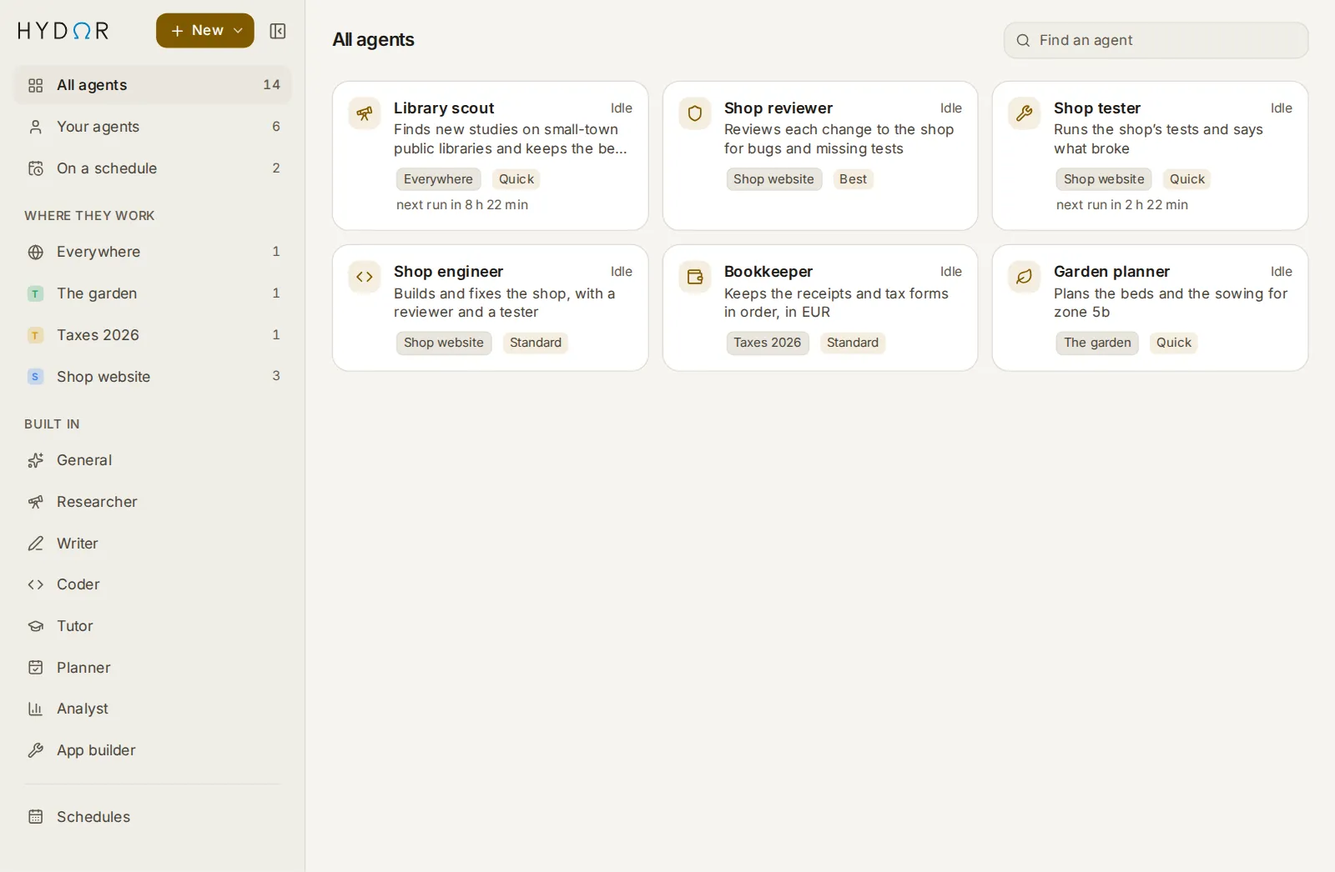
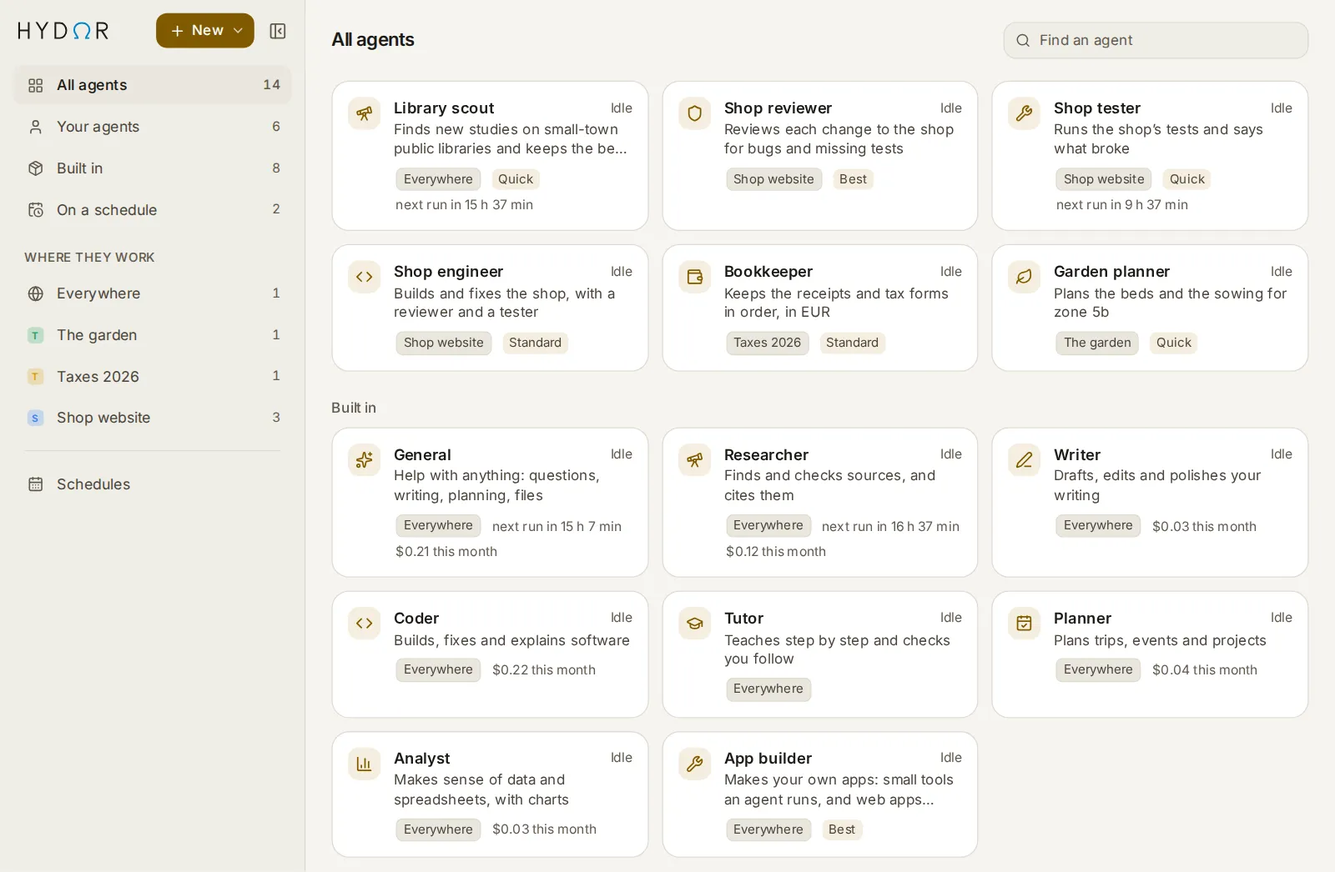
Agents: All agents lists every agent, yours and then the ones that come with the app under Built in, as cards (it showed only yours beside a count of all of them, since the column listed the built-in ones); the column's row for each built-in agent gives way to one Built in place (/agents?place=built

diff --git a/web/src/features/assistants/AgentsPage.tsx b/web/src/features/assistants/AgentsPage.tsx
@@ -5,7 +5,7 @@
 // and in its menu its Versions and Download as a file; Install installs one from a file.
 import { useEffect, useMemo, useRef, useState } from 'react';
 import { useLocation, useSearch } from 'wouter';
-import { BellRing, CalendarClock, CalendarDays, ChevronDown, Copy, Download, FileDown, FileUp, Globe, History, LayoutGrid, MessageSquarePlus, MoreHorizontal, Plus, Search, Settings2, Sparkles, Trash2, User, X } from 'lucide-react';
+import { BellRing, CalendarClock, CalendarDays, ChevronDown, Copy, Download, FileDown, FileUp, Globe, History, LayoutGrid, MessageSquarePlus, MoreHorizontal, Package, Plus, Search, Settings2, Sparkles, Trash2, User, X } from 'lucide-react';
 import { agentFileName } from '@shared/agent-files';
 import { DEFAULT_ASSISTANT, hasOutput, type Assistant, type AssistantsState } from '@shared/assistants';
 import type { ScheduledTask, TaskDraft } from '@shared/automations';
@@ -344,7 +344,7 @@ function AgentDetail({ id, onEdit, wide }: { id: string; onEdit: (a: Partial<Ass
 // ---- the page --------------------------------------------------------------------------------------------------
 
 /** Where the page is, on a computer: all the agents, a part of them, one of the ready-made ones' pages (an address of its own) or Schedules. */
-type Place = 'all' | 'mine' | 'needs' | 'scheduled' | 'everywhere' | 'schedules' | `project:${string}`;
+type Place = 'all' | 'mine' | 'builtin' | 'needs' | 'scheduled' | 'everywhere' | 'schedules' | `project:${string}`;
 
 /** The address that keeps a place (so a link opens it): /agents, /agents?place=mine, /agents/schedules. */
 function addressOf(p: Place): string {
@@ -353,7 +353,7 @@ function addressOf(p: Place): string {
   return `/agents?place=${encodeURIComponent(p)}`;
 }
 
-const PLACE_TITLES: Record<string, string> = { all: 'All agents', mine: 'Your agents', needs: 'Needs you', scheduled: 'On a schedule', everywhere: 'Everywhere', schedules: 'Schedules' };
+const PLACE_TITLES: Record<string, string> = { all: 'All agents', mine: 'Your agents', builtin: 'Built in', needs: 'Needs you', scheduled: 'On a schedule', everywhere: 'Everywhere', schedules: 'Schedules' };
 
 /** New agent, with Import and Install under it: the page's actions, in the row of the logo on a computer. */
 function NewAgentMenu({ onImport, onInstall }: { onImport: () => void; onInstall: () => void }) {
@@ -387,7 +387,6 @@ export function AgentsPage() {
   const spaces = useSpaces();
   const act = useAgentActivity();
   const wide = useMediaQuery('(min-width: 1024px)');
-  const sideOpen = useUI((s) => s.sideOpen);
   const [edit, setEdit] = useState<Partial<Assistant> | null>(null);
   const [filter, setFilter] = useState<string>('all');
   const [find, setFind] = useState('');
@@ -417,7 +416,7 @@ export function AgentsPage() {
   const everywhere = mine.filter((a) => !a.projects?.length).length;
   // The place, on a computer: from the address (a place that is gone, as a project, shows All agents). Narrower, the chips pick the filter.
   const asked = q.get('place');
-  const place: Place = schedules ? 'schedules' : !wide || id ? 'all' : asked === 'mine' || asked === 'needs' || asked === 'scheduled' || asked === 'everywhere' ? asked : asked?.startsWith('project:') && projects.some((s) => `project:${s.id}` === asked) ? (asked as Place) : 'all';
+  const place: Place = schedules ? 'schedules' : !wide || id ? 'all' : asked === 'mine' || asked === 'builtin' || asked === 'needs' || asked === 'scheduled' || asked === 'everywhere' ? asked : asked?.startsWith('project:') && projects.some((s) => `project:${s.id}` === asked) ? (asked as Place) : 'all';
   const by = wide ? (place === 'all' || place === 'mine' || place === 'schedules' ? 'all' : place.startsWith('project:') ? place.slice(8) : place) : filter;
   const words = (wide ? find : '').trim().toLowerCase();
   const found = (a: Assistant) => !words || `${a.name} ${a.description || a.instructions.slice(0, 160)}`.toLowerCase().includes(words);
@@ -433,9 +432,9 @@ export function AgentsPage() {
             : !!a.projects?.includes(by)) && found(a),
   );
   const builtinsShown = builtins.filter(found);
-  // The built-in agents have rows of their own in the column: the page lists them only while the column is hidden (or
-  // on a phone), and among what a search finds.
-  const showBuiltins = !wide || (place === 'all' && (!sideOpen || !!words));
+  // All agents lists them all: yours, then the ones that come with the app (Built in lists only those). A phone lists
+  // the built-in ones under its chips whatever they pick.
+  const showBuiltins = !wide || place === 'all' || place === 'builtin';
   useEffect(() => setFind(''), [place]);
   const chip = (key: string, label: string, n?: number) => (
     <button
@@ -457,6 +456,7 @@ export function AgentsPage() {
         <nav aria-label="Places in Agents" className="space-y-0.5">
           <PlaceRow on={!id && place === 'all'} icon={icon(LayoutGrid)} label="All agents" count={st ? mine.length + builtins.length : 0} onClick={() => go(addressOf('all'))} />
           <PlaceRow on={place === 'mine' || (!!id && !builtins.some((a) => a.id === id) && mine.some((a) => a.id === id))} icon={icon(User)} label="Your agents" count={mine.length} onClick={() => go(addressOf('mine'))} />
+          {builtins.length > 0 && <PlaceRow on={place === 'builtin' || (!!id && builtins.some((a) => a.id === id))} icon={icon(Package)} label="Built in" count={builtins.length} onClick={() => go(addressOf('builtin'))} />}
           {(needs > 0 || place === 'needs') && <PlaceRow on={place === 'needs'} icon={icon(BellRing)} label="Needs you" count={needs} onClick={() => go(addressOf('needs'))} />}
           {(scheduledCount > 0 || place === 'scheduled') && <PlaceRow on={place === 'scheduled'} icon={icon(CalendarClock)} label="On a schedule" count={scheduledCount} onClick={() => go(addressOf('scheduled'))} />}
           {projects.length > 0 && (
@@ -473,14 +473,6 @@ export function AgentsPage() {
                   count={mine.filter((a) => a.projects?.includes(s.id)).length}
                   onClick={() => go(addressOf(`project:${s.id}`))}
                 />
-              ))}
-            </>
-          )}
-          {builtins.length > 0 && (
-            <>
-              <PlacesLabel>Built in</PlacesLabel>
-              {builtins.map((a) => (
-                <PlaceRow key={a.id} on={id === a.id} icon={<AssistantIcon icon={a.icon} size={15} plain className="text-fg-3" />} label={a.name} onClick={() => go(`/agents/${enc(a.id)}`)} />
               ))}
             </>
           )}
@@ -569,7 +561,7 @@ export function AgentsPage() {
                 </div>
               ) : (
                 <>
-                  {!mine.length ? (
+                  {place === 'builtin' ? null : !mine.length ? (
                     place !== 'all' && place !== 'mine' && wide ? (
                       <div className="py-6 text-center text-[13px] text-fg-3">None here.</div>
                     ) : (
@@ -608,26 +600,35 @@ export function AgentsPage() {
                   )}
                   {showBuiltins && builtinsShown.length > 0 && (
                     <section>
-                      <h2 className="mb-2 text-[13px] font-medium text-fg-3">Built in</h2>
-                      <div className="flex flex-wrap gap-1.5">
-                        {/* Built-in identities stay English in German; authored agents keep their words in every language. */}
-                        {builtinsShown.map((a) => (
-                          <button
-                            key={a.id}
-                            type="button"
-                            onClick={() => go(`/agents/${enc(a.id)}`)}
-                            title={a.description}
-                            translate={assistantTranslate(a)}
-                            className="flex items-center gap-2 rounded-full border border-line bg-panel py-1 pr-3 pl-1 text-[13px] hover:border-line-2"
-                          >
-                            <AssistantIcon icon={a.icon} size={12} />
-                            {a.name}
-                            {a.id === DEFAULT_ASSISTANT && <span className="text-[11.5px] text-fg-3">· the default</span>}
-                          </button>
-                        ))}
-                      </div>
+                      {place !== 'builtin' && <h2 className="mb-2 text-[13px] font-medium text-fg-3">Built in</h2>}
+                      {wide ? (
+                        <div className="grid gap-3 sm:grid-cols-2 xl:grid-cols-3">
+                          {builtinsShown.map((a) => (
+                            <AgentCard key={a.id} a={a} spaces={spaces} />
+                          ))}
+                        </div>
+                      ) : (
+                        <div className="flex flex-wrap gap-1.5">
+                          {/* Built-in identities stay English in German; authored agents keep their words in every language. */}
+                          {builtinsShown.map((a) => (
+                            <button
+                              key={a.id}
+                              type="button"
+                              onClick={() => go(`/agents/${enc(a.id)}`)}
+                              title={a.description}
+                              translate={assistantTranslate(a)}
+                              className="flex items-center gap-2 rounded-full border border-line bg-panel py-1 pr-3 pl-1 text-[13px] hover:border-line-2"
+                            >
+                              <AssistantIcon icon={a.icon} size={12} />
+                              {a.name}
+                              {a.id === DEFAULT_ASSISTANT && <span className="text-[11.5px] text-fg-3">· the default</span>}
+                            </button>
+                          ))}
+                        </div>
+                      )}
                     </section>
                   )}
+                  {place === 'builtin' && !builtinsShown.length && <div className="py-6 text-center text-[13px] text-fg-3">None here.</div>}
                 </>
               )}
             </div>

diff --git a/docs/guide/el/05-agents.md b/docs/guide/el/05-agents.md
@@ -31,7 +31,7 @@
 Ανοίξτε το **Πράκτορες** στη στήλη εικονιδίων ή μεταβείτε στο [/agents](/agents). Στο κινητό η πλευρική στήλη είναι συρτάρι: ανοίξτε το πρώτα. Στις [Ρυθμίσεις → Δυνατότητες → Οι πράκτορές σας](/settings?s=assistants&find=Your%20agents) υπάρχει μια γραμμή **Οι πράκτορές σας** που ανοίγει κι αυτή τη σελίδα (αναφέρει πόσοι πράκτορες είναι δικοί σας)· το υπόλοιπο της ενότητας αφορά τους φακέλους εργασιών και τον καθαρισμό, παρακάτω.
 
 - Στον υπολογιστή η σελίδα έχει μια στήλη δίπλα στη στήλη εικονιδίων, όπως οι Εφαρμογές και οι Ρυθμίσεις: το λογότυπο, το **Νέο** και το **Απόκρυψη πλευρικής στήλης** (Ctrl+B, ⌘B σε Mac) στην κορυφή, και από κάτω τα σημεία. Το **Νέο** ανοίγει ένα μενού: το **Νέος πράκτορας** δημιουργεί έναν (δείτε [Δημιουργία πράκτορα](#make-an-agent))· το **Εγκατάσταση πράκτορα από αρχείο** εγκαθιστά έναν από αρχείο που σας έδωσε κάποιος (δείτε [Κοινοποίηση πράκτορα ως αρχείου](#share-an-agent-as-a-file))· το **Εισαγωγή αρχείων πρακτόρων του Claude Code** φέρνει τα αρχεία πρακτόρων του Claude Code (δείτε [Εισαγωγή των αρχείων πρακτόρων του Claude Code](#import-claude-codes-agent-files)).
-- Τα σημεία: **Όλοι οι πράκτορες** (οι δικοί σας ως κάρτες, και από κάτω οι ενσωματωμένοι όταν η στήλη είναι κρυφή, αφού η στήλη τους απαριθμεί), **Οι πράκτορές σας** (μόνο οι δικοί σας), **Σας χρειάζεται** και **Με πρόγραμμα** (το καθένα εμφανίζεται όσο ισχύει για κάποιους δικούς σας) και, κάτω από το **Πού εργάζονται**, το **Παντού** και κάθε έργο που έχει δικούς του πράκτορες. Το καθένα δείχνει πόσους πράκτορες περιέχει. Κάτω από το **Ενσωματωμένο** υπάρχει μια γραμμή για κάθε πράκτορα που συνοδεύει την εφαρμογή, με το εικονίδιό του, και ανοίγει τη δική του σελίδα. Μετά από μια γραμμή διαχωρισμού, τα **Προγράμματα** δείχνουν ό,τι εκτελείται από μόνο του σε μια εβδομάδα: τα προγράμματα των πρακτόρων σας μαζί με τις άλλες προγραμματισμένες εργασίες σας, τα προγράμματα των εφαρμογών σας, τους παρατηρητές και τα webhooks, κάθε εκτέλεση χρωματισμένη ανάλογα με το πώς πήγε, τι εκτελείται στη συνέχεια, και μια λίστα με όλα με διακόπτη για παύση του καθενός (δείτε [Δείτε την εβδομάδα: τι εκτελέστηκε και τι εκτελείται στη συνέχεια](/guide/tasks#see-the-week-what-ran-and-what-runs-next)). Το ανοιχτό σημείο επισημαίνεται και η διεύθυνση το διατηρεί (`/agents?place=mine`, `/agents/schedules`), έτσι ένας σύνδεσμος το ανοίγει.
+- Τα σημεία: **Όλοι οι πράκτορες** (κάθε πράκτορας ως κάρτα: οι δικοί σας, και μετά όσοι συνοδεύουν την εφαρμογή κάτω από το **Ενσωματωμένο**), **Οι πράκτορές σας** (μόνο οι δικοί σας), **Ενσωματωμένο** (μόνο όσοι συνοδεύουν την εφαρμογή· ένα κλικ σε έναν από αυτούς ανοίγει τη δική του σελίδα), **Σας χρειάζεται** και **Με πρόγραμμα** (το καθένα εμφανίζεται όσο ισχύει για κάποιους δικούς σας) και, κάτω από το **Πού εργάζονται**, το **Παντού** και κάθε έργο που έχει δικούς του πράκτορες. Το καθένα δείχνει πόσους πράκτορες περιέχει. Μετά από μια γραμμή διαχωρισμού, τα **Προγράμματα** δείχνουν ό,τι εκτελείται από μόνο του σε μια εβδομάδα: τα προγράμματα των πρακτόρων σας μαζί με τις άλλες προγραμματισμένες εργασίες σας, τα προγράμματα των εφαρμογών σας, τους παρατηρητές και τα webhooks, κάθε εκτέλεση χρωματισμένη ανάλογα με το πώς πήγε, τι εκτελείται στη συνέχεια, και μια λίστα με όλα με διακόπτη για παύση του καθενός (δείτε [Δείτε την εβδομάδα: τι εκτελέστηκε και τι εκτελείται στη συνέχεια](/guide/tasks#see-the-week-what-ran-and-what-runs-next)). Το ανοιχτό σημείο επισημαίνεται και η διεύθυνση το διατηρεί (`/agents?place=mine`, `/agents/schedules`), έτσι ένας σύνδεσμος το ανοίγει.
 - Στην κορυφή της σελίδας, το όνομα του σημείου βρίσκεται αριστερά και το πεδίο αναζήτησης δεξιά: το **Βρείτε έναν πράκτορα** περιορίζει τις κάρτες, και τους ενσωματωμένους πράκτορες, σε όσους έχουν στο όνομα ή στη γραμμή τους αυτό που πληκτρολογείτε.
 - Οι πράκτορές σας εμφανίζονται ως κάρτες. Κάθε κάρτα έχει το όνομα του πράκτορα, τη γραμμή του, την κατάστασή του (**Εργάζεται**, **Σας χρειάζεται** όταν μια συνεδρία του περιμένει την απάντησή σας, **Ο προϋπολογισμός εξαντλήθηκε** ή **Αδρανής**), τα έργα στα οποία εργάζεται (ή **Παντού**), τη βαθμίδα του, πότε εκτελείται στη συνέχεια, πόσα μηνύματα περιμένουν στα Εισερχόμενά του και πόσα ξόδεψε αυτόν τον μήνα.
 - Στο κινητό και σε στενό παράθυρο δεν υπάρχει στήλη: η σελίδα κρατά τον τίτλο της, με τα **Νέος πράκτορας**, **Εισαγωγή** και **Εγκατάσταση** στα δεξιά, δύο καρτέλες από κάτω (**Οι πράκτορές σας** και **Προγράμματα**), και πάνω από τις κάρτες chips που δείχνουν **Όλα**, **Παντού**, κάθε έργο που έχει δικούς του πράκτορες, **Με πρόγραμμα** και **Σας χρειάζεται**. Οι πράκτορες που συνοδεύουν την εφαρμογή βρίσκονται κάτω από το **Ενσωματωμένο**.

diff --git a/docs/guide/ja/05-agents.md b/docs/guide/ja/05-agents.md
@@ -31,7 +31,7 @@
 アイコンバーの**エージェント**を開くか、[/agents](/agents)にアクセスします。スマートフォンではサイドバーがドロワーになっているため、先にそれを開きます。[設定 → 機能 → 自分のエージェント](/settings?s=assistants&find=Your%20agents)にも、このページを開く**自分のエージェント**の行があります（自分のエージェントの数が表示されます）。そのセクションのそのほかの項目は、後述のタスクフォルダと片付けに関するものです。
 
 - コンピューターでは、アプリや設定と同じように、アイコンバーの横に列が表示されます。上部にロゴ、**新規**、**サイドバーを隠す**（Ctrl+B、Macでは⌘B）があり、その下に各場所が並びます。**新規**はメニューを開きます。**新しいエージェント**はエージェントを作成します（[エージェントを作る](#make-an-agent)を参照）。**ファイルからエージェントをインストール**は、他の人から受け取ったファイルからエージェントをインストールします（[エージェントをファイルとして共有する](#share-an-agent-as-a-file)を参照）。**Claude Codeのエージェントファイルをインポート**は、Claude Codeのエージェントファイルを取り込みます（[Claude Codeのエージェントファイルをインポートする](#import-claude-codes-agent-files)を参照）。
-- 場所は次のとおりです。**すべてのエージェント**（自分のエージェントがカードで並びます。列を隠しているあいだは、その下に組み込みのエージェントも並びます。列を表示しているときは、列のほうに一覧されるためです）、**自分のエージェント**（自分のものだけ）、**対応が必要**と**スケジュール実行**（自分のエージェントに該当するものがあるときに表示されます）、そして**作業場所**の下の**すべての場所**と、専用のエージェントを持つ各プロジェクトです。それぞれに、含まれるエージェントの数が表示されます。**組み込み**の下には、アプリに最初から入っているエージェントごとに、アイコン付きの行があり、そのエージェント専用のページを開きます。区切り線の後の**スケジュール**には、1週間のうちに自動で実行されるものがすべて表示されます。自分のエージェントのスケジュールと、そのほかのスケジュールタスク、アプリのスケジュール、ウォッチャー、Webhookがあり、各実行は結果に応じた色で示され、次に実行されるものと、すべての一覧も確認できます。一覧には、それぞれを一時停止するスイッチがあります（[1週間を見る：実行されたものと次に実行されるもの](/guide/tasks#see-the-week-what-ran-and-what-runs-next)を参照）。開いている場所には印が付き、アドレスにもその場所が含まれる（`/agents?place=mine`、`/agents/schedules`）ので、リンクでその場所を開けます。
+- 場所は次のとおりです。**すべてのエージェント**（すべてのエージェントをカードで表示します。自分のエージェントが先に、その後にアプリに最初から入っているエージェントが**組み込み**の下に並びます）、**自分のエージェント**（自分のものだけ）、**組み込み**（アプリに最初から入っているものだけ。1つをクリックすると、そのエージェント専用のページが開きます）、**対応が必要**と**スケジュール実行**（自分のエージェントに該当するものがあるときに表示されます）、そして**作業場所**の下の**すべての場所**と、専用のエージェントを持つ各プロジェクトです。それぞれに、含まれるエージェントの数が表示されます。区切り線の後の**スケジュール**には、1週間のうちに自動で実行されるものがすべて表示されます。自分のエージェントのスケジュールと、そのほかのスケジュールタスク、アプリのスケジュール、ウォッチャー、Webhookがあり、各実行は結果に応じた色で示され、次に実行されるものと、すべての一覧も確認できます。一覧には、それぞれを一時停止するスイッチがあります（[1週間を見る：実行されたものと次に実行されるもの](/guide/tasks#see-the-week-what-ran-and-what-runs-next)を参照）。開いている場所には印が付き、アドレスにもその場所が含まれる（`/agents?place=mine`、`/agents/schedules`）ので、リンクでその場所を開けます。
 - ページ上部の左側に場所の名前、右側に検索ボックスがあります。**エージェントを検索**に入力すると、名前または説明文にその文字を含むカードと組み込みエージェントに絞り込まれます。
 - 自分のエージェントはカードで表示されます。各カードには、エージェントの名前、説明文、状況（**実行中**、セッションが回答を待っているときは**対応が必要**、**予算を使い切りました**、**待機中**）、作業するプロジェクト（または**すべての場所**）、ティア、次の実行予定、受信トレイで待っているメッセージの数、今月の支出額が表示されます。
 - スマートフォンや狭いウィンドウでは列は表示されません。ページにはタイトルが残り、右側に**新しいエージェント**、**インポート**、**インストール**が並びます。その下に2つのタブ（**自分のエージェント**と**スケジュール**）があり、カードの上には、**すべて**、**すべての場所**、専用のエージェントを持つ各プロジェクト、**スケジュール実行**、**対応が必要**を示すチップが並びます。アプリに最初から入っているエージェントは**組み込み**の下にあります。

diff --git a/docs/guide/fr/05-agents.md b/docs/guide/fr/05-agents.md
@@ -31,7 +31,7 @@ Un agent est un rôle qu’une session endosse. Le texte que tous les agents doi
 Ouvrez **Agents** dans la barre d’icônes, ou allez à [/agents](/agents). Sur un téléphone, la barre latérale est un tiroir : ouvrez-le d’abord. [Paramètres → Capacités → Vos agents](/settings?s=assistants&find=Your%20agents) contient une ligne **Vos agents** qui ouvre aussi cette page (elle indique combien d’agents sont les vôtres) ; le reste de cette section concerne les dossiers de tâche et le nettoyage, plus bas.
 
 - Sur un ordinateur, la page comporte une colonne à côté de la barre d’icônes, comme Apps et Paramètres : le logo, **Nouveau** et **Masquer la barre latérale** (Ctrl+B, ⌘B sur un Mac) en haut, et les emplacements en dessous. **Nouveau** ouvre un menu : **Nouvel agent** en crée un (voir [Créer un agent](#make-an-agent)) ; **Installer un agent depuis un fichier** installe un agent à partir d’un fichier que quelqu’un vous a donné (voir [Partager un agent sous forme de fichier](#share-an-agent-as-a-file)) ; **Importer des fichiers d’agent Claude Code** importe les fichiers d’agent de Claude Code (voir [Importer les fichiers d’agent de Claude Code](#import-claude-codes-agent-files)).
-- Les emplacements : **Tous les agents** (les vôtres sous forme de cartes, et les agents intégrés en dessous quand la colonne est masquée, puisque la colonne les liste), **Vos agents** (seulement les vôtres), **Votre intervention est requise** et **Sur planification** (chacun s’affiche tant que certains des vôtres sont concernés) et, sous **Où ils travaillent**, **Partout** et chaque projet qui a ses propres agents. Chacun indique le nombre d’agents qu’il contient. Sous **Intégré**, une ligne par agent fourni avec l’app, avec son icône, ouvre la page propre à cet agent. Après un séparateur, **Planifications** montre tout ce qui s’exécute tout seul sur une semaine : les planifications de vos agents avec vos autres tâches planifiées, les planifications, observateurs et webhooks de vos apps, chaque exécution colorée selon son déroulement, ce qui s’exécute ensuite, et la liste de toutes avec un interrupteur pour mettre chacune en pause (voir [Voir la semaine : ce qui s’est exécuté et ce qui s’exécute ensuite](/guide/tasks#see-the-week-what-ran-and-what-runs-next)). L’emplacement ouvert est marqué, et l’adresse le retient (`/agents?place=mine`, `/agents/schedules`), de sorte qu’un lien l’ouvre.
+- Les emplacements : **Tous les agents** (chaque agent sous forme de carte : les vôtres, puis ceux fournis avec l’app sous **Intégré**), **Vos agents** (seulement les vôtres), **Intégré** (seulement ceux fournis avec l’app ; un clic sur l’un d’eux ouvre sa propre page), **Votre intervention est requise** et **Sur planification** (chacun s’affiche tant que certains des vôtres sont concernés) et, sous **Où ils travaillent**, **Partout** et chaque projet qui a ses propres agents. Chacun indique le nombre d’agents qu’il contient. Après un séparateur, **Planifications** montre tout ce qui s’exécute tout seul sur une semaine : les planifications de vos agents avec vos autres tâches planifiées, les planifications, observateurs et webhooks de vos apps, chaque exécution colorée selon son déroulement, ce qui s’exécute ensuite, et la liste de toutes avec un interrupteur pour mettre chacune en pause (voir [Voir la semaine : ce qui s’est exécuté et ce qui s’exécute ensuite](/guide/tasks#see-the-week-what-ran-and-what-runs-next)). L’emplacement ouvert est marqué, et l’adresse le retient (`/agents?place=mine`, `/agents/schedules`), de sorte qu’un lien l’ouvre.
 - En haut de la page, le nom de l’emplacement est à gauche et la zone de recherche à droite : **Trouver un agent** réduit les cartes, ainsi que les agents intégrés, à ceux dont le nom ou la ligne contient ce que vous saisissez.
 - Vos agents s’affichent sous forme de cartes. Chaque carte indique le nom de l’agent, sa ligne, où il en est (**En cours**, **Votre intervention est requise** quand l’une de ses sessions attend votre réponse, **Budget épuisé**, ou **Inactif**), les projets dans lesquels il travaille (ou **Partout**), son niveau, sa prochaine exécution, le nombre de messages qui attendent dans sa boîte de réception, et ce qu’il a dépensé ce mois-ci.
 - Sur un téléphone et dans une fenêtre étroite, il n’y a pas de colonne : la page garde son titre, avec **Nouvel agent**, **Importer** et **Installer** à droite, deux onglets en dessous (**Vos agents** et **Planifications**), et des pastilles au-dessus des cartes qui affichent **Tout**, **Partout**, chaque projet qui a ses propres agents, **Sur planification** et **Votre intervention est requise**. Les agents fournis avec l’app se trouvent sous **Intégré**.

diff --git a/docs/guide/es/05-agents.md b/docs/guide/es/05-agents.md
@@ -31,7 +31,7 @@ Un agente es un papel que asume una sesión. El texto que todos los agentes debe
 Abre **Agentes** en la barra de iconos, o ve a [/agents](/agents). En un teléfono la barra lateral es un panel deslizante: ábrelo primero. [Configuración → Capacidades → Tus agentes](/settings?s=assistants&find=Your%20agents) tiene una fila **Tus agentes** que también abre esta página (indica cuántos agentes son tuyos); el resto de esa sección trata de las carpetas de tareas y de la limpieza, más abajo.
 
 - En una computadora la página tiene una columna junto a la barra de iconos, como Apps y Configuración: arriba están el logotipo, **Nueva** y **Ocultar barra lateral** (Ctrl+B, ⌘B en Mac), y debajo los lugares. **Nueva** abre un menú: **Nuevo agente** crea uno (consulta [Crear un agente](#make-an-agent)); **Instalar un agente desde un archivo** instala uno desde un archivo que alguien te dio (consulta [Compartir un agente como archivo](#share-an-agent-as-a-file)); **Importar archivos de agentes de Claude Code** trae los archivos de agentes de Claude Code (consulta [Importar los archivos de agentes de Claude Code](#import-claude-codes-agent-files)).
-- Los lugares: **Todos los agentes** (los tuyos como tarjetas, y los integrados debajo mientras la columna está oculta, ya que la columna los lista), **Tus agentes** (solo los tuyos), **Te necesita** y **Con programación** (cada uno aparece mientras algunos de los tuyos cumplen esa condición) y, bajo **Dónde trabajan**, **En todas partes** y cada proyecto que tiene agentes propios. Cada uno indica cuántos agentes contiene. Bajo **Integrado** hay una fila por cada agente que viene con la app, con su icono, y abre la página propia de ese agente. Después de una línea, **Programaciones** muestra en una semana todo lo que se ejecuta solo: las programaciones de tus agentes junto con tus otras tareas programadas, las programaciones de tus apps, los vigilantes y los webhooks, cada ejecución coloreada según cómo salió, lo que se ejecuta a continuación y una lista de todas con un interruptor para pausar cada una (consulta [Ver la semana: qué se ejecutó y qué se ejecutará](/guide/tasks#see-the-week-what-ran-and-what-runs-next)). El lugar abierto aparece marcado y la dirección lo conserva (`/agents?place=mine`, `/agents/schedules`), así que un enlace lo abre.
+- Los lugares: **Todos los agentes** (cada agente como tarjeta: los tuyos, y luego los que vienen con la app bajo **Integrado**), **Tus agentes** (solo los tuyos), **Integrado** (solo los que vienen con la app; un clic en uno abre su propia página), **Te necesita** y **Con programación** (cada uno aparece mientras algunos de los tuyos cumplen esa condición) y, bajo **Dónde trabajan**, **En todas partes** y cada proyecto que tiene agentes propios. Cada uno indica cuántos agentes contiene. Después de una línea, **Programaciones** muestra en una semana todo lo que se ejecuta solo: las programaciones de tus agentes junto con tus otras tareas programadas, las programaciones de tus apps, los vigilantes y los webhooks, cada ejecución coloreada según cómo salió, lo que se ejecuta a continuación y una lista de todas con un interruptor para pausar cada una (consulta [Ver la semana: qué se ejecutó y qué se ejecutará](/guide/tasks#see-the-week-what-ran-and-what-runs-next)). El lugar abierto aparece marcado y la dirección lo conserva (`/agents?place=mine`, `/agents/schedules`), así que un enlace lo abre.
 - En la parte superior de la página, el nombre del lugar está a la izquierda y el cuadro de búsqueda a la derecha: **Buscar un agente** reduce las tarjetas, y los agentes integrados, a los que tienen lo que escribes en su nombre o en su línea.
 - Tus agentes aparecen como tarjetas. Cada tarjeta tiene el nombre del agente, su línea, cómo le va (**Funcionando**, **Te necesita** cuando una de sus sesiones espera tu respuesta, **Presupuesto agotado** o **Inactivo**), los proyectos en los que trabaja (o **En todas partes**), su nivel, cuándo se ejecuta a continuación, cuántos mensajes esperan en su bandeja de entrada y lo que gastó este mes.
 - En un teléfono y en una ventana estrecha no hay columna: la página conserva su título, con **Nuevo agente**, **Importar** e **Instalar** a la derecha, dos pestañas debajo (**Tus agentes** y **Programaciones**) y, sobre las tarjetas, chips que muestran **Todos**, **En todas partes**, cada proyecto que tiene agentes propios, **Con programación** y **Te necesita**. Los agentes que vienen con la app están bajo **Integrado**.

diff --git a/docs/guide/de/05-agents.md b/docs/guide/de/05-agents.md
@@ -31,7 +31,7 @@ Ein Agent ist eine Rolle, die eine Sitzung übernimmt. Text, den alle Agenten in
 Öffne **Agenten** in der Leiste oder gehe zu [/agents](/agents). Auf einem Smartphone ist die Seitenleiste eine Schublade: öffne sie zuerst. [Einstellungen → Funktionen → Deine Agenten](/settings?s=assistants&find=Your%20agents) hat eine Zeile **Deine Agenten**, die ebenfalls diese Seite öffnet (sie nennt, wie viele Agenten deine eigenen sind); der Rest dieses Abschnitts handelt von Aufgabenordnern und dem Aufräumen, weiter unten.
 
 - Auf einem Computer hat die Seite neben der Leiste eine Spalte, wie Apps und Einstellungen: oben das Logo, **Neu** und **Seitenleiste ausblenden** (Strg+B, ⌘B auf einem Mac), darunter die Orte. **Neu** öffnet ein Menü: **Neuer Agent** erstellt einen (siehe [Einen Agenten erstellen](#make-an-agent)); **Agent aus Datei installieren** installiert einen aus einer Datei, die dir jemand gegeben hat (siehe [Einen Agenten als Datei teilen](#share-an-agent-as-a-file)); **Claude Code-Agentendateien importieren** holt die Agentendateien von Claude Code herein (siehe [Die Agentendateien von Claude Code importieren](#import-claude-codes-agent-files)).
-- Die Orte: **Alle Agenten** (deine als Karten, und die eingebauten darunter, solange die Spalte ausgeblendet ist, da die Spalte sie auflistet), **Deine Agenten** (nur deine), **Braucht dich** und **Nach einem Zeitplan** (jeweils sichtbar, solange einige von deinen dazu passen) und unter **Wo sie arbeiten** **Überall** und jedes Projekt, das eigene Agenten hat. Jeder Ort zeigt, wie viele Agenten er enthält. Unter **Eingebaut** gibt es für jeden Agenten, der mit der App mitkommt, eine Zeile mit seinem Symbol, die die eigene Seite dieses Agenten öffnet. Nach einer Trennlinie zeigt **Zeitpläne** alles, was von selbst läuft, auf einer Woche: die Zeitpläne deiner Agenten mit deinen anderen Geplanten Aufgaben, die Zeitpläne deiner Apps, Watcher und Webhooks, jede Ausführung eingefärbt danach, wie sie verlief, was als Nächstes läuft und eine Liste von allen mit einem Schalter, um jede zu pausieren (siehe [Die Woche ansehen: was lief und was als Nächstes läuft](/guide/tasks#see-the-week-what-ran-and-what-runs-next)). Der geöffnete Ort ist markiert, und die Adresse behält ihn (`/agents?place=mine`, `/agents/schedules`), sodass ein Link ihn öffnet.
+- Die Orte: **Alle Agenten** (jeder Agent als Karte: deine, dann die, die mit der App mitkommen, unter **Eingebaut**), **Deine Agenten** (nur deine), **Eingebaut** (nur die, die mit der App mitkommen; ein Klick auf einen öffnet seine eigene Seite), **Braucht dich** und **Nach einem Zeitplan** (jeweils sichtbar, solange einige von deinen dazu passen) und unter **Wo sie arbeiten** **Überall** und jedes Projekt, das eigene Agenten hat. Jeder Ort zeigt, wie viele Agenten er enthält. Nach einer Trennlinie zeigt **Zeitpläne** alles, was von selbst läuft, auf einer Woche: die Zeitpläne deiner Agenten mit deinen anderen Geplanten Aufgaben, die Zeitpläne deiner Apps, Watcher und Webhooks, jede Ausführung eingefärbt danach, wie sie verlief, was als Nächstes läuft und eine Liste von allen mit einem Schalter, um jede zu pausieren (siehe [Die Woche ansehen: was lief und was als Nächstes läuft](/guide/tasks#see-the-week-what-ran-and-what-runs-next)). Der geöffnete Ort ist markiert, und die Adresse behält ihn (`/agents?place=mine`, `/agents/schedules`), sodass ein Link ihn öffnet.
 - Oben auf der Seite steht links der Name des Ortes und rechts das Suchfeld: **Agent suchen** schränkt die Karten und die eingebauten Agenten auf die ein, deren Name oder Zeile enthält, was du eingibst.
 - Deine Agenten werden als Karten angezeigt. Jede Karte zeigt den Namen des Agenten, seine Zeile, seinen Status (**Arbeitet**, **Braucht dich**, wenn eine seiner Sitzungen auf deine Antwort wartet, **Budget aufgebraucht** oder **Inaktiv**), die Projekte, in denen er arbeitet (oder **Überall**), seine Leistungsstufe, wann er als Nächstes läuft, wie viele Nachrichten in seinem Posteingang warten und was er diesen Monat ausgegeben hat.
 - Auf einem Smartphone und in einem schmalen Fenster gibt es keine Spalte: Die Seite behält ihren Titel, mit **Neuer Agent**, **Importieren** und **Installieren** rechts, darunter zwei Tabs (**Deine Agenten** und **Zeitpläne**) und über den Karten Chips, die **Alle**, **Überall**, jedes Projekt mit eigenen Agenten, **Nach einem Zeitplan** und **Braucht dich** zeigen. Die Agenten, die mit der App mitkommen, stehen unter **Eingebaut**.

diff --git a/docs/guide/zh/05-agents.md b/docs/guide/zh/05-agents.md
@@ -31,7 +31,7 @@
 在侧栏中打开**智能体**，或前往 [/agents](/agents)。在手机上，侧边栏是一个抽屉：需要先打开它。[设置 → 功能 → 你的智能体](/settings?s=assistants&find=Your%20agents)中有一行**你的智能体**，同样可以打开这个页面（它会显示有多少个智能体是你自己的）；该部分的其余内容是关于任务文件夹和清理的，见下文。
 
 - 在电脑上，页面在侧栏旁边有一列，就像“应用”和“设置”一样：顶部是徽标、**新增**和**隐藏侧边栏**（Ctrl+B，Mac 上为 ⌘B），下面是各个分类。**新增**会打开一个菜单：**新建智能体**用来创建一个（见[创建智能体](#make-an-agent)）；**从文件安装智能体**用来安装别人给你的文件中的智能体（见[把智能体分享为文件](#share-an-agent-as-a-file)）；**导入 Claude Code 智能体文件**用来导入 Claude Code 的智能体文件（见[导入 Claude Code 的智能体文件](#import-claude-codes-agent-files)）。
-- 各个分类：**所有智能体**（你的智能体以卡片显示；当这一列被隐藏时，内置智能体显示在卡片下方，因为这一列本身会列出它们）、**你的智能体**（只有你自己的）、**需要你处理**和**有定时运行**（当你的智能体中有符合条件的才会显示），以及在**它们在哪里工作**下的**全部**和每个拥有自己智能体的项目。每个分类都会显示它包含多少个智能体。在**内置**下，应用自带的每个智能体各有一行，带有它的图标，点击会打开该智能体自己的页面。在一条分隔线之后，**定时运行**会按周显示所有自动运行的内容：你的智能体的定时运行以及你的其他定时任务、你的应用的定时运行、监视器和 webhook，每次运行按结果以不同颜色标示，还有接下来会运行什么，以及一个包含全部内容的列表，每项都有开关可以暂停（见[查看这一周：已运行的和接下来要运行的](/guide/tasks#see-the-week-what-ran-and-what-runs-next)）。当前打开的分类会被标出，地址中也会保留它（`/agents?place=mine`、`/agents/schedules`），所以通过链接可以直接打开它。
+- 各个分类：**所有智能体**（每个智能体都以卡片显示：你的智能体在前，然后是应用自带的智能体，位于**内置**之下）、**你的智能体**（只有你自己的）、**内置**（只有应用自带的；点击其中一个会打开它自己的页面）、**需要你处理**和**有定时运行**（当你的智能体中有符合条件的才会显示），以及在**它们在哪里工作**下的**全部**和每个拥有自己智能体的项目。每个分类都会显示它包含多少个智能体。在一条分隔线之后，**定时运行**会按周显示所有自动运行的内容：你的智能体的定时运行以及你的其他定时任务、你的应用的定时运行、监视器和 webhook，每次运行按结果以不同颜色标示，还有接下来会运行什么，以及一个包含全部内容的列表，每项都有开关可以暂停（见[查看这一周：已运行的和接下来要运行的](/guide/tasks#see-the-week-what-ran-and-what-runs-next)）。当前打开的分类会被标出，地址中也会保留它（`/agents?place=mine`、`/agents/schedules`），所以通过链接可以直接打开它。
 - 在页面顶部，左边是分类的名称，右边是查找框：**查找智能体**会把卡片和内置智能体缩小到名称或简介中含有你所输入内容的那些。
 - 你的智能体以卡片显示。每张卡片包含智能体的名称、它的简介、它的状态（**工作中**、当它的某个会话在等你回答时显示**需要你处理**、**预算已用完**或**空闲**）、它工作所在的项目（或**全部**）、它的档位、它下次运行的时间、它的收件箱里有多少条消息在等待，以及它本月花了多少。
 - 在手机和窄窗口中没有这一列：页面保留标题，右边是**新建智能体**、**导入**和**安装**，下面有两个标签页（**你的智能体**和**定时运行**），卡片上方是筛选标签，显示**全部**、**全部**、每个拥有自己智能体的项目、**有定时运行**和**需要你处理**。应用自带的智能体在**内置**下。

diff --git a/docs/guide/pt/05-agents.md b/docs/guide/pt/05-agents.md
@@ -31,7 +31,7 @@ Um agente é um papel que uma sessão assume. Texto que todos os agentes devem s
 Abra **Agentes** na barra de ícones ou acesse [/agents](/agents). No celular, a barra lateral é uma gaveta: abra-a primeiro. Em [Configurações → Recursos → Seus agentes](/settings?s=assistants&find=Your%20agents) há uma linha **Seus agentes** que também abre esta página (ela diz quantos agentes são seus); o restante dessa seção trata das pastas de tarefa e da limpeza, mais abaixo.
 
 - No computador, a página tem uma coluna ao lado da barra de ícones, como Apps e Configurações: o logotipo, **Nova** e **Ocultar barra lateral** (Ctrl+B, ⌘B no Mac) no alto, e os lugares logo abaixo. **Nova** abre um menu: **Novo agente** cria um (veja [Criar um agente](#make-an-agent)); **Instalar um agente a partir de um arquivo** instala um a partir de um arquivo que alguém lhe deu (veja [Compartilhar um agente como arquivo](#share-an-agent-as-a-file)); **Importar arquivos de agentes do Claude Code** traz os arquivos de agentes do Claude Code (veja [Importar os arquivos de agentes do Claude Code](#import-claude-codes-agent-files)).
-- Os lugares: **Todos os agentes** (os seus como cartões e, abaixo deles, os integrados enquanto a coluna estiver oculta, já que a coluna os lista), **Seus agentes** (só os seus), **Precisa de você** e **Em um agendamento** (cada um aparece enquanto alguns dos seus agentes se encaixam) e, em **Onde trabalham**, **Em todos os lugares** e cada projeto que tem agentes próprios. Cada um mostra quantos agentes contém. Em **Integrado** há uma linha para cada agente que vem com o app, com o ícone dele, e ela abre a página própria desse agente. Depois de uma linha, **Agendamentos** mostra tudo o que roda sozinho em uma semana: os agendamentos dos seus agentes com as suas outras tarefas agendadas, os agendamentos, observadores e webhooks dos seus apps, cada execução colorida conforme o resultado, o que roda em seguida e uma lista de todos com um interruptor para pausar cada um (veja [Ver a semana: o que foi executado e o que será](/guide/tasks#see-the-week-what-ran-and-what-runs-next)). O lugar aberto fica marcado e o endereço o guarda (`/agents?place=mine`, `/agents/schedules`), então um link o abre.
+- Os lugares: **Todos os agentes** (cada agente como cartão: os seus e, depois, os que vêm com o app em **Integrado**), **Seus agentes** (só os seus), **Integrado** (só os que vêm com o app; um clique em um deles abre a página própria dele), **Precisa de você** e **Em um agendamento** (cada um aparece enquanto alguns dos seus agentes se encaixam) e, em **Onde trabalham**, **Em todos os lugares** e cada projeto que tem agentes próprios. Cada um mostra quantos agentes contém. Depois de uma linha, **Agendamentos** mostra tudo o que roda sozinho em uma semana: os agendamentos dos seus agentes com as suas outras tarefas agendadas, os agendamentos, observadores e webhooks dos seus apps, cada execução colorida conforme o resultado, o que roda em seguida e uma lista de todos com um interruptor para pausar cada um (veja [Ver a semana: o que foi executado e o que será](/guide/tasks#see-the-week-what-ran-and-what-runs-next)). O lugar aberto fica marcado e o endereço o guarda (`/agents?place=mine`, `/agents/schedules`), então um link o abre.
 - No alto da página, o nome do lugar fica à esquerda e a caixa de busca à direita: **Encontrar um agente** reduz os cartões, e os agentes integrados, aos que têm no nome ou na descrição o que você digitar.
 - Seus agentes aparecem como cartões. Cada cartão tem o nome do agente, a descrição dele, o andamento (**Em andamento**, **Precisa de você** quando uma das sessões dele espera sua resposta, **Orçamento esgotado** ou **Ocioso**), os projetos em que ele trabalha (ou **Em todos os lugares**), o nível, quando ele roda em seguida, quantas mensagens aguardam na caixa de entrada dele e quanto gastou neste mês.
 - No celular e em uma janela estreita não há coluna: a página mantém o título, com **Novo agente**, **Importar** e **Instalar** à direita, duas abas abaixo (**Seus agentes** e **Agendamentos**) e chips acima dos cartões que mostram **Todos**, **Em todos os lugares**, cada projeto que tem agentes próprios, **Em um agendamento** e **Precisa de você**. Os agentes que vêm com o app ficam em **Integrado**.

diff --git a/docs/guide/05-agents.md b/docs/guide/05-agents.md
@@ -31,7 +31,7 @@ An agent is a role a session takes on. Text that every agent should follow in ev
 Open **Agents** on the rail, or go to [/agents](/agents). On a phone the sidebar is a drawer: open it first. [Settings → Capabilities → Your agents](/settings?s=assistants&find=Your%20agents) has a **Your agents** row that opens this page too (it says how many agents are your own); the rest of that section is about task folders and clean-up, below.
 
 - On a computer the page has a column beside the rail, as Apps and Settings do: the logo, **New** and **Hide sidebar** (Ctrl+B, ⌘B on a Mac) at the top, and the places under them. **New** opens a menu: **New agent** makes one (see [Make an agent](#make-an-agent)); **Install an agent from a file** installs one from a file someone gave you (see [Share an agent as a file](#share-an-agent-as-a-file)); **Import Claude Code agent files** brings in Claude Code's agent files (see [Import Claude Code's agent files](#import-claude-codes-agent-files)).
-- The places: **All agents** (yours as cards, and the built-in ones under them while the column is hidden, since the column lists them), **Your agents** (only yours), **Needs you** and **On a schedule** (each shows while some of yours do), and, under **Where they work**, **Everywhere** and each project that has agents of its own. Each has how many agents it holds. Under **Built in** there is a row for each agent that comes with the app, with its icon, and it opens that agent's own page. After a line, **Schedules** shows everything that runs by itself on a week: your agents' schedules with your other scheduled tasks, your apps' schedules, watchers and webhooks, each run coloured by how it went, what runs next, and a list of them all with a switch to pause each (see [See the week: what ran and what runs next](/guide/tasks#see-the-week-what-ran-and-what-runs-next)). The open place is marked, and the address keeps it (`/agents?place=mine`, `/agents/schedules`), so a link opens it.
+- The places: **All agents** (every agent as a card: yours, then the ones that come with the app under **Built in**), **Your agents** (only yours), **Built in** (only the ones that come with the app; a click on one opens its own page), **Needs you** and **On a schedule** (each shows while some of yours do), and, under **Where they work**, **Everywhere** and each project that has agents of its own. Each has how many agents it holds. After a line, **Schedules** shows everything that runs by itself on a week: your agents' schedules with your other scheduled tasks, your apps' schedules, watchers and webhooks, each run coloured by how it went, what runs next, and a list of them all with a switch to pause each (see [See the week: what ran and what runs next](/guide/tasks#see-the-week-what-ran-and-what-runs-next)). The open place is marked, and the address keeps it (`/agents?place=mine`, `/agents/schedules`), so a link opens it.
 - At the top of the page, the name of the place is at the left and the find box at the right: **Find an agent** narrows the cards, and the built-in agents, to those whose name or line has what you type.
 - Your agents show as cards. Each card has the agent's name, its line, how it is doing (**Working**, **Needs you** when one of its sessions waits for your answer, **Budget spent**, or **Idle**), the projects it works in (or **Everywhere**), its tier, when it runs next, how many messages wait in its inbox, and what it spent this month.
 - On a phone and in a narrow window there is no column: the page keeps its title, with **New agent**, **Import** and **Install** at the right, two tabs under it (**Your agents** and **Schedules**), and chips above the cards that show **All**, **Everywhere**, each project that has agents of its own, **On a schedule** and **Needs you**. The agents that come with the app are under **Built in**.

diff --git a/docs/features.md b/docs/features.md
@@ -186,7 +186,7 @@ agents that speak ACP and take MCP servers.
   projects, tier, next run and what it spent this month. On a computer it has a column beside the rail, as Apps'
   (the logo, **New**, whose menu has New agent, Install an agent from a file and Import Claude Code agent files, and Hide;
   then All agents, Your agents, Needs you and On a schedule when some of yours are, Everywhere and each project that has
-  agents of its own, a row for each built-in agent that opens its page (the page lists them too only while the column is hidden, or when a search finds them), and Schedules), a row with the place's name and a
+  agents of its own, Built in (the agents that come with the app; All agents lists them too, under yours), and Schedules), a row with the place's name and a
   find box (by name and line), and an agent's own page keeps the column beside it; a phone keeps its header, tabs and
   chips. **New agent** opens a window in two steps: you say what it should
   do (or pick an idea: Paper digest, Weekly report, Change reviewer, Translator) and the helper model drafts its instructions,
